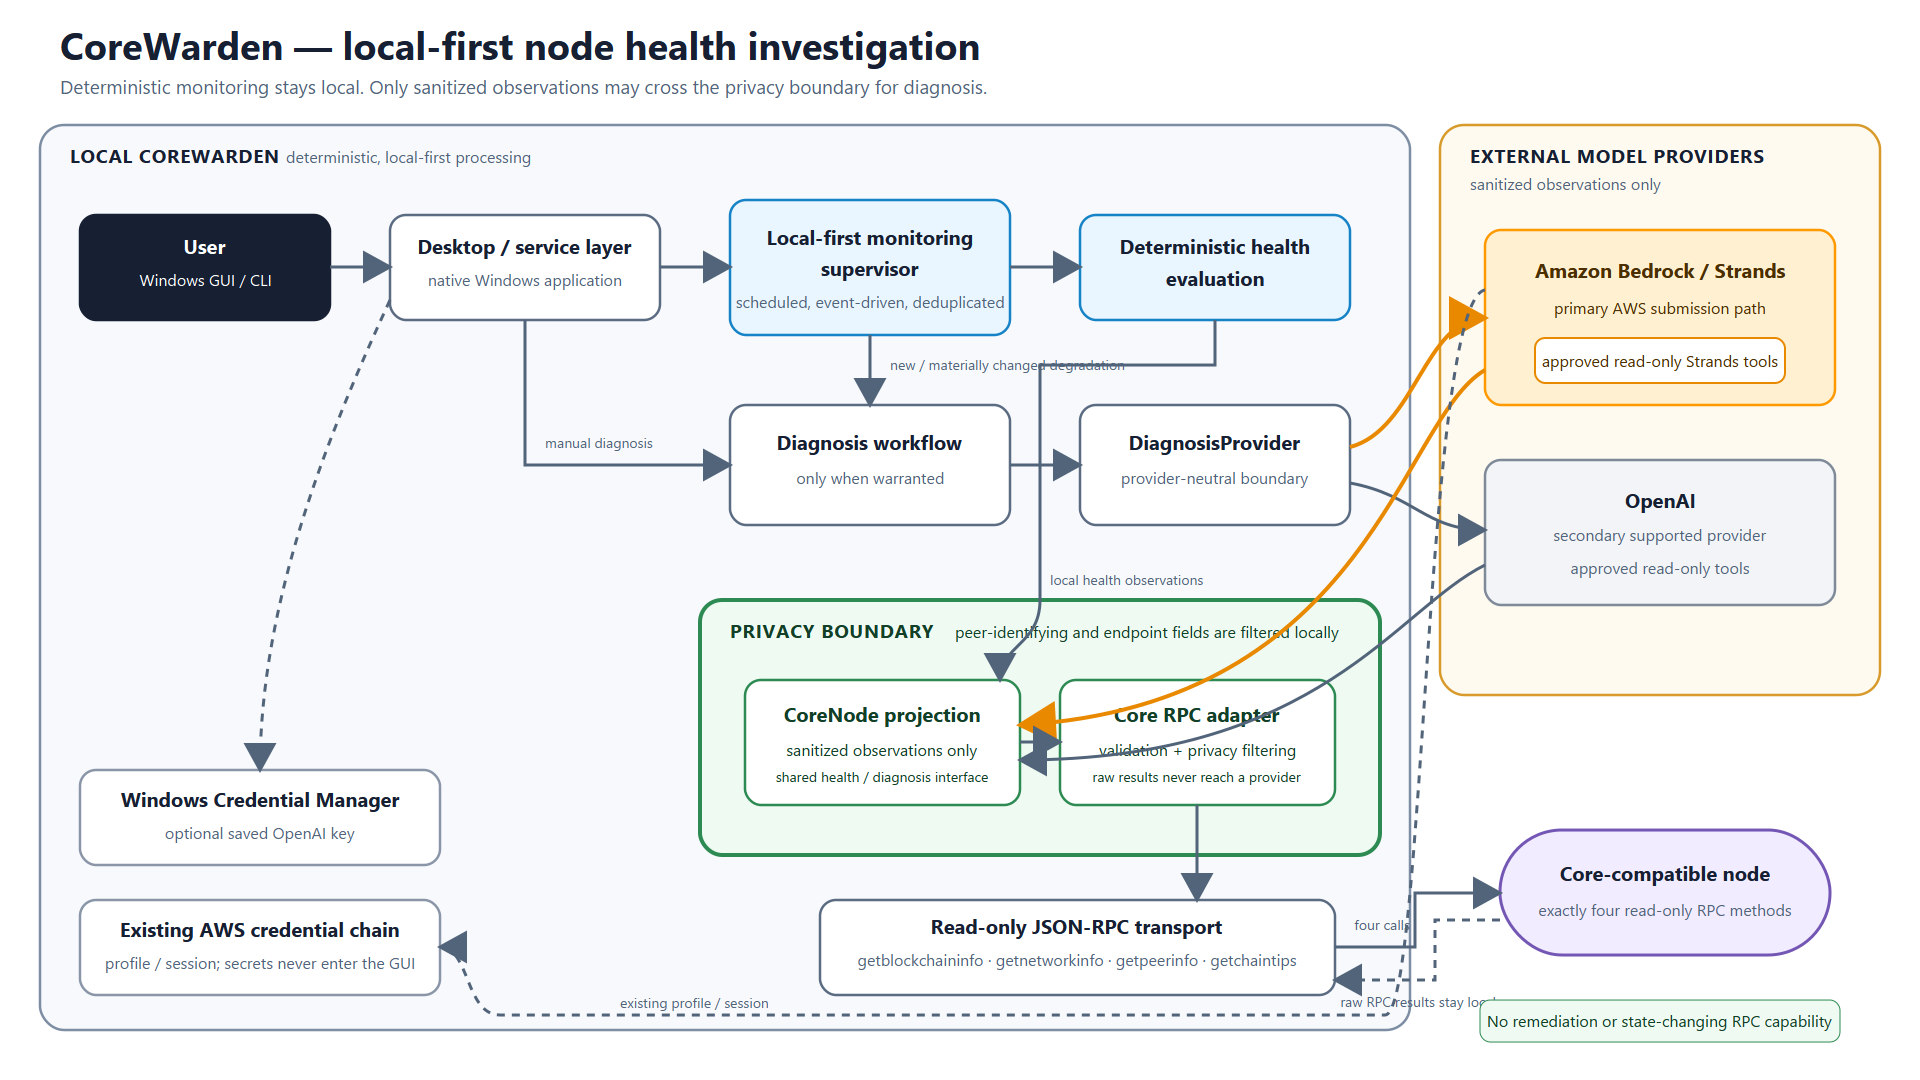
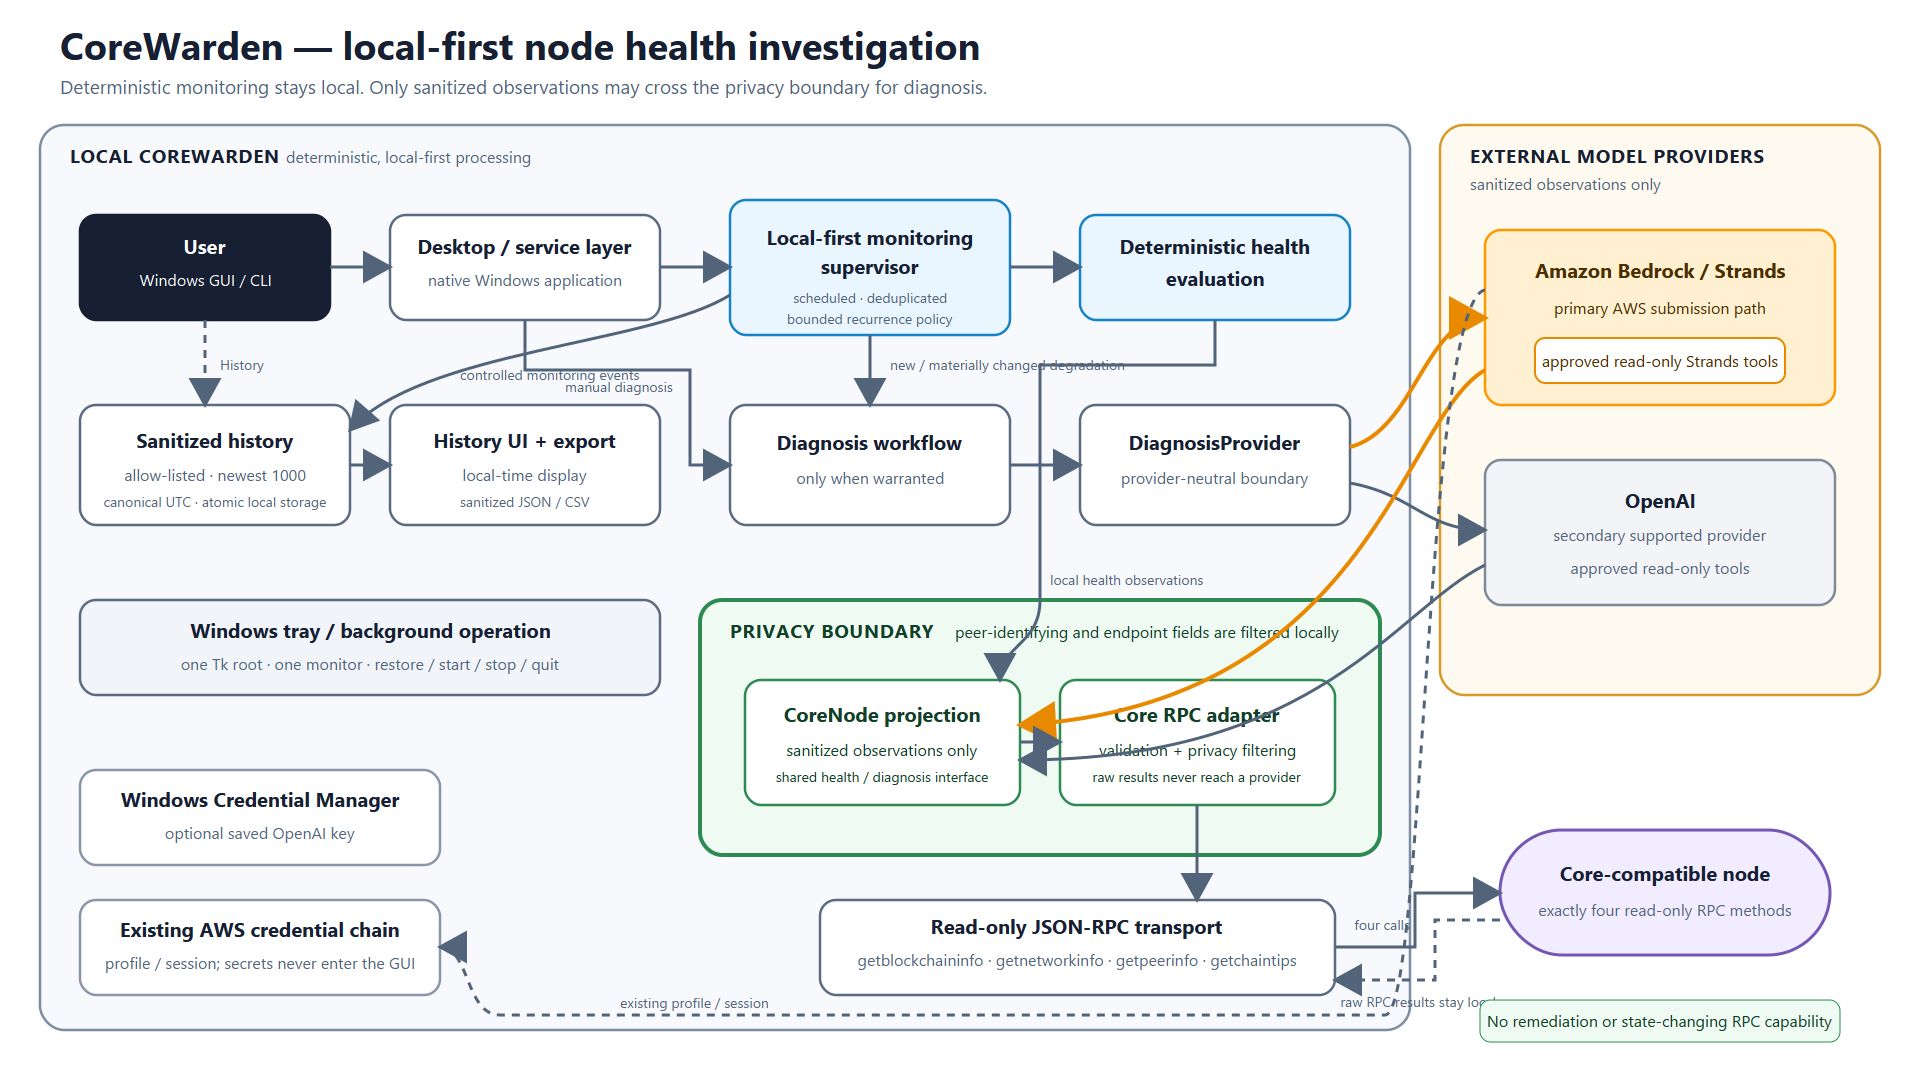
Refresh CoreWarden submission assets

Changed region(s): [[0.0312, 0.3056, 0.375, 0.4889], [0.0312, 0.55, 0.3438, 0.7028], [0.3438, 0.2444, 0.5312, 0.3056]]

diff --git a/submission-assets/README.md b/submission-assets/README.md
@@ -4,16 +4,18 @@ These files are presentation assets for the AWS Agents for Humans Devpost entry,
 
 | File | Dimensions | What it demonstrates | Data source | Live provider call for capture | Recommended use |
 | --- | ---: | --- | --- | --- | --- |
-| `corewarden-architecture.svg` | 1920 × 1080 | Local-first monitoring, meaningful-change escalation, the provider-neutral diagnosis workflow, the primary Amazon Bedrock / Strands path, secondary OpenAI support, the privacy projection/filter boundary, and the exact four read-only RPC capabilities. | Derived from `ARCHITECTURE.md` and the current implementation; no node data. | No | Devpost architecture section, GitHub README, lossless demo-video overlays |
+| `corewarden-architecture.svg` | 1920 × 1080 | Local-first monitoring, bounded recurrence, allow-listed persistent history/export, tray/background operation, meaningful-change escalation, the provider-neutral diagnosis workflow, the primary Amazon Bedrock / Strands path, secondary OpenAI support, the privacy projection/filter boundary, and the exact four read-only RPC capabilities. | Derived from the current `ARCHITECTURE.md` and implementation; no node data. | No | Devpost architecture section, GitHub README, lossless demo-video overlays |
 | `corewarden-architecture.png` | 1920 × 1080 | Raster presentation version of the architecture diagram. | Same as the SVG. | No | Devpost image gallery, slide/video overlays, social previews |
-| `corewarden-healthy.png` | 1042 × 1032 | Native CoreWarden GUI with Amazon Bedrock selected, loopback node shown connected, deterministic monitoring Healthy, and no AI investigation. | Synthetic state replayed through the real native GUI presentation layer; no real node. | No | Devpost product screenshot, GitHub README, demo-video healthy-state segment |
-| `corewarden-degraded-strands.png` | 1042 × 1032 | Native CoreWarden GUI showing the validated degraded peer-connectivity condition, Amazon Bedrock / Strands investigation, `suspicious` classification, and 82% confidence. | Replayed result from the previously validated synthetic monitoring acceptance run; no new node or model execution. | No new call; the displayed result records the earlier validated acceptance result. | Primary Devpost product screenshot, GitHub README, demo-video investigation segment |
-| `corewarden-recovery.png` | 1042 × 1032 | Native CoreWarden GUI showing Healthy → Degraded → AI investigation → Node recovered history, while preserving the last investigation and making clear that recovery caused no provider call. | Synthetic/replayed state through the real native GUI presentation layer; no real node. | No | Devpost supporting screenshot, demo-video recovery segment |
+| `corewarden-healthy.png` | 1000 × 1000 | Current native CoreWarden GUI with Amazon Bedrock selected, loopback node shown connected, deterministic monitoring Healthy, current History controls, and no AI investigation. | Synthetic state replayed through the real native GUI presentation layer; no real node. | No | Devpost product screenshot, GitHub README, demo-video healthy-state segment |
+| `corewarden-degraded-strands.png` | 1000 × 1000 | Current native CoreWarden GUI showing the validated degraded peer-connectivity condition, Amazon Bedrock / Strands investigation, `suspicious` classification, and 82% confidence. | Replayed result from the previously validated synthetic monitoring acceptance run; no new node or model execution. | No new call; the displayed result records the earlier validated acceptance result. | Primary Devpost product screenshot, GitHub README, demo-video investigation segment |
+| `corewarden-history.png` | 1280 × 560 | Current native sanitized History dialog showing local-offset timestamps and the Healthy → Degraded → investigation → recovery audit trail, with JSON/CSV export controls. | Synthetic/replayed allow-listed events through the real native History presentation layer; no real node. | No | Devpost supporting screenshot, README history section, demo-video audit-trail segment |
+| `corewarden-recovery.png` | 1000 × 1000 | Current native CoreWarden GUI showing recovery while retaining the last validated investigation and stating that recovery caused no provider call. | Synthetic/replayed state through the real native GUI presentation layer; no real node. | No | Devpost supporting screenshot, demo-video recovery segment |
 | `corewarden-logo.png` | 128 × 128 | Approved CoreWarden character artwork. | Exact copy of `assets/Sprite128.png`. | No | Devpost logo/avatar, GitHub presentation, video title cards |
 
 ## Capture and rendering notes
 
-- The architecture SVG was authored directly from the repository architecture and implementation, without a browser renderer. The PNG was rasterized from that SVG with an isolated, development-only CairoSVG installation outside the repository. No CoreWarden dependency declaration was changed.
+- The architecture SVG was authored directly from the repository architecture and implementation, without a browser renderer. It was refreshed after the history/tray/resilience work because those components materially changed the architecture. The PNG was rasterized from that SVG with an isolated, development-only CairoSVG 2.9.0 installation outside the repository. No CoreWarden dependency declaration was changed.
 - GUI screenshots are native Windows/Tk captures of the existing `CoreWardenDesktop` presentation layer. A temporary replay-only launcher populated existing GUI fields and status widgets with synthetic or previously validated values; it did not call monitoring, RPC, Bedrock, or OpenAI code and is not included in this folder.
 - All credential inputs are blank. The only endpoint visible is the synthetic loopback address `127.0.0.1:18443`. No API keys, passwords, cookie contents, AWS account identifiers, authorization values, peer addresses/identifiers, raw RPC output, private filesystem paths, or unrelated desktop content are present.
 - No live Bedrock or OpenAI request and no real Bitcoin II node contact occurred while producing these assets.
+- Automated native MP4 capture was not accepted on this host because neither FFmpeg/gdigrab nor OBS was installed, and the available Windows-native recorder requires interactive user control. See `DEMO-RECORDING.md` for the deterministic manual capture plan.

diff --git a/submission-assets/DEMO-RECORDING.md b/submission-assets/DEMO-RECORDING.md
@@ -1,0 +1,62 @@
+# CoreWarden manual demo recording plan
+
+Automated native-window MP4 capture was not reliable on this host: FFmpeg/gdigrab and OBS are not installed, and Xbox Game Bar is intentionally interactive. Do not add recording code or a CoreWarden runtime dependency. Record with **Xbox Game Bar** (`Win+Alt+R`) or OBS on a clean desktop.
+
+## Safe setup
+
+Use the packaged executable:
+
+From the repository root, launch the exact packaged executable:
+
+```text
+dist\CoreWarden\CoreWarden.exe
+```
+
+For an optional live synthetic-node segment, start the loopback-only harness from the repository:
+
+```powershell
+python scripts\synthetic_rpc_harness.py serve
+```
+
+Its endpoint is `http://127.0.0.1:18443`. Enter the documented test-only authentication while recording is paused, then leave the password field masked. Never use a real node credential. The scenario file is changed with:
+
+```powershell
+$scenarioFile = Join-Path ([IO.Path]::GetTempPath()) 'corewarden-synthetic-scenario.txt'
+Set-Content -LiteralPath $scenarioFile -Value 'healthy'
+Set-Content -LiteralPath $scenarioFile -Value 'degraded_peer_connectivity'
+Set-Content -LiteralPath $scenarioFile -Value 'recovered'
+```
+
+Production GUI monitoring keeps its five-minute minimum. For a three-to-four-minute submission cut, record the current native GUI and use the validated replay screenshots below for the transition/result/history shots. Add a visible caption such as **“Validated Strands acceptance result — replayed; no new model request.”** Do not imply that the replay is a fresh provider invocation.
+
+## Window preparation
+
+1. Use a clean Windows virtual desktop with notifications disabled.
+2. Close or hide Codex, terminals, wallets, node GUIs, Discord, and personal applications.
+3. Set display scaling to the value used for the screenshots and center CoreWarden at roughly 1000 × 1000 pixels.
+4. Select Amazon Bedrock. Keep AWS profile blank, region `us-west-2`, advanced model setting collapsed, RPC username/password/cookie fields out of focus, and all secrets absent.
+5. Record only the CoreWarden window. Do not record the taskbar unless the tray segment has been explicitly checked for unrelated icons or notifications.
+
+## Timed shot list (about 2:45)
+
+| Time | Action | Expected visible result |
+| ---: | --- | --- |
+| 0:00–0:12 | Title card using `corewarden-logo.png` and product name. | CoreWarden branding; no private desktop content. |
+| 0:12–0:35 | Show `corewarden-healthy.png` or the equivalent live synthetic healthy GUI. | Node Connected, Monitoring Healthy, Last AI investigation Never; explain that healthy checks stay local. |
+| 0:35–0:55 | Brief architecture crop/full frame from `corewarden-architecture.png`. | Local deterministic monitoring, privacy boundary, and the primary Bedrock/Strands route are readable. |
+| 0:55–1:25 | Show `corewarden-degraded-strands.png` with the replay caption. | Degraded peer connectivity; Amazon Bedrock / Strands; suspicious; 82%; no fresh provider call. |
+| 1:25–1:40 | Hold the same degraded frame and call out recurrence/deduplication. | Unchanged fault does not create an immediate second investigation. |
+| 1:40–2:00 | Show `corewarden-recovery.png`. | Monitoring Healthy again; last validated investigation retained; no recovery AI call. |
+| 2:00–2:30 | Show `corewarden-history.png`. | Local-offset timestamps and the sanitized healthy/degraded/investigation/recovery sequence; JSON/CSV controls visible. |
+| 2:30–2:45 | Return to the architecture or logo. | End on local-first, read-only, privacy-filtered positioning. |
+
+## Tray segment
+
+The tray shot is optional. Capture it only on a clean virtual desktop after confirming that no unrelated icons, notifications, account names, or private windows are visible. Start monitoring, close the CoreWarden window, open only the CoreWarden tray menu, show `Monitoring: Active`, then choose `Open CoreWarden`. If the taskbar cannot be isolated cleanly, omit this shot.
+
+## Final review
+
+- Verify the MP4 is H.264/AAC (or H.264 without audio), 1920 × 1080, and no longer than four minutes.
+- Watch the full export at normal speed and inspect paused frames around every window switch.
+- Confirm there are no keys, tokens, account IDs, RPC credentials, peer addresses, hostnames, private paths, terminals, or unrelated desktop content.
+- Confirm every replayed diagnosis is labeled as replayed and previously validated.
